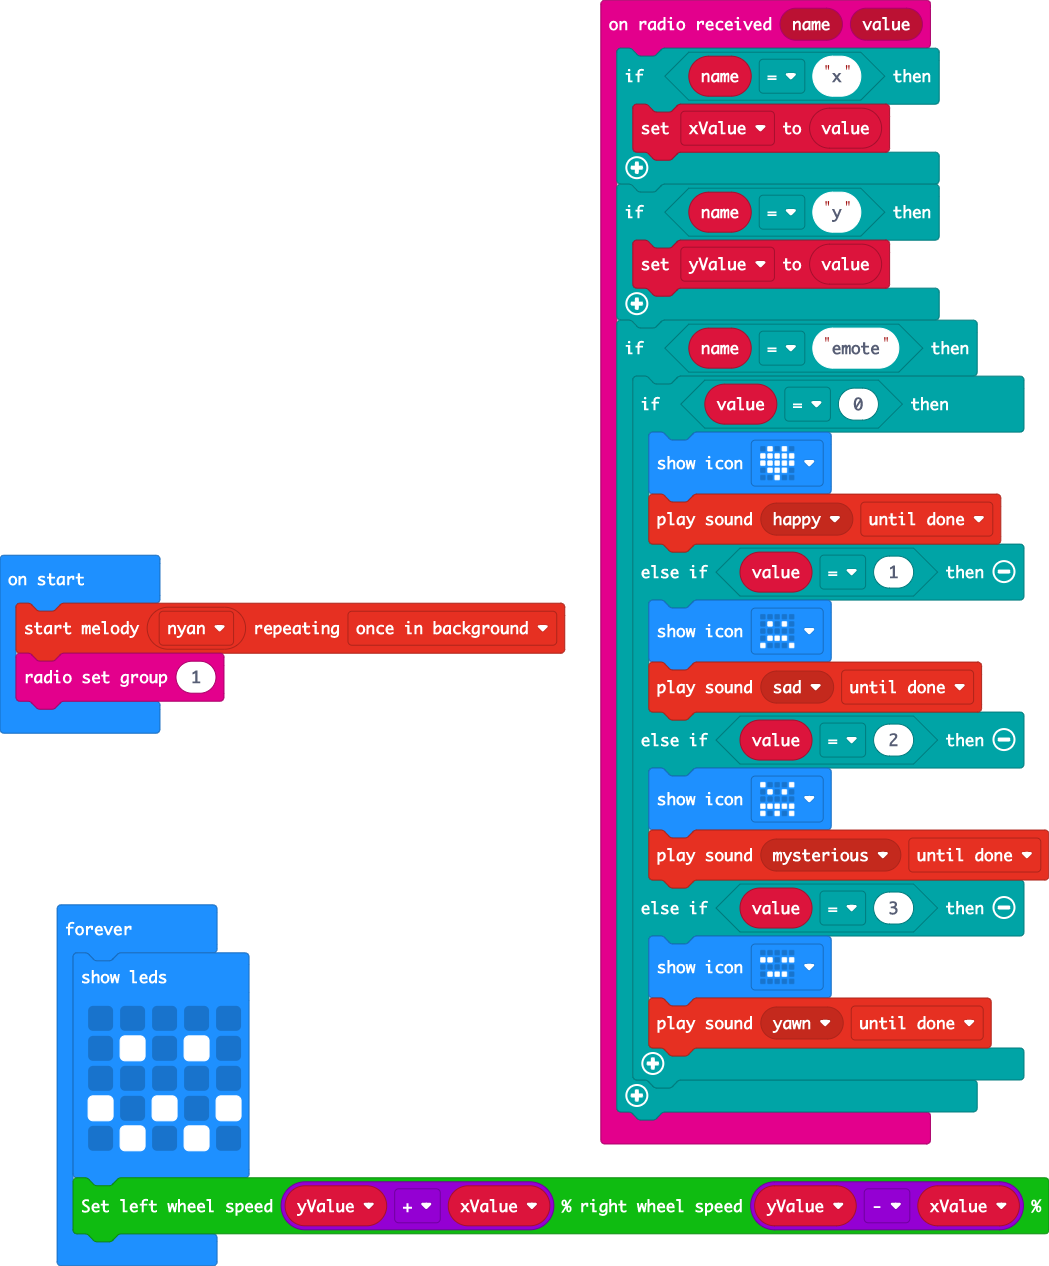
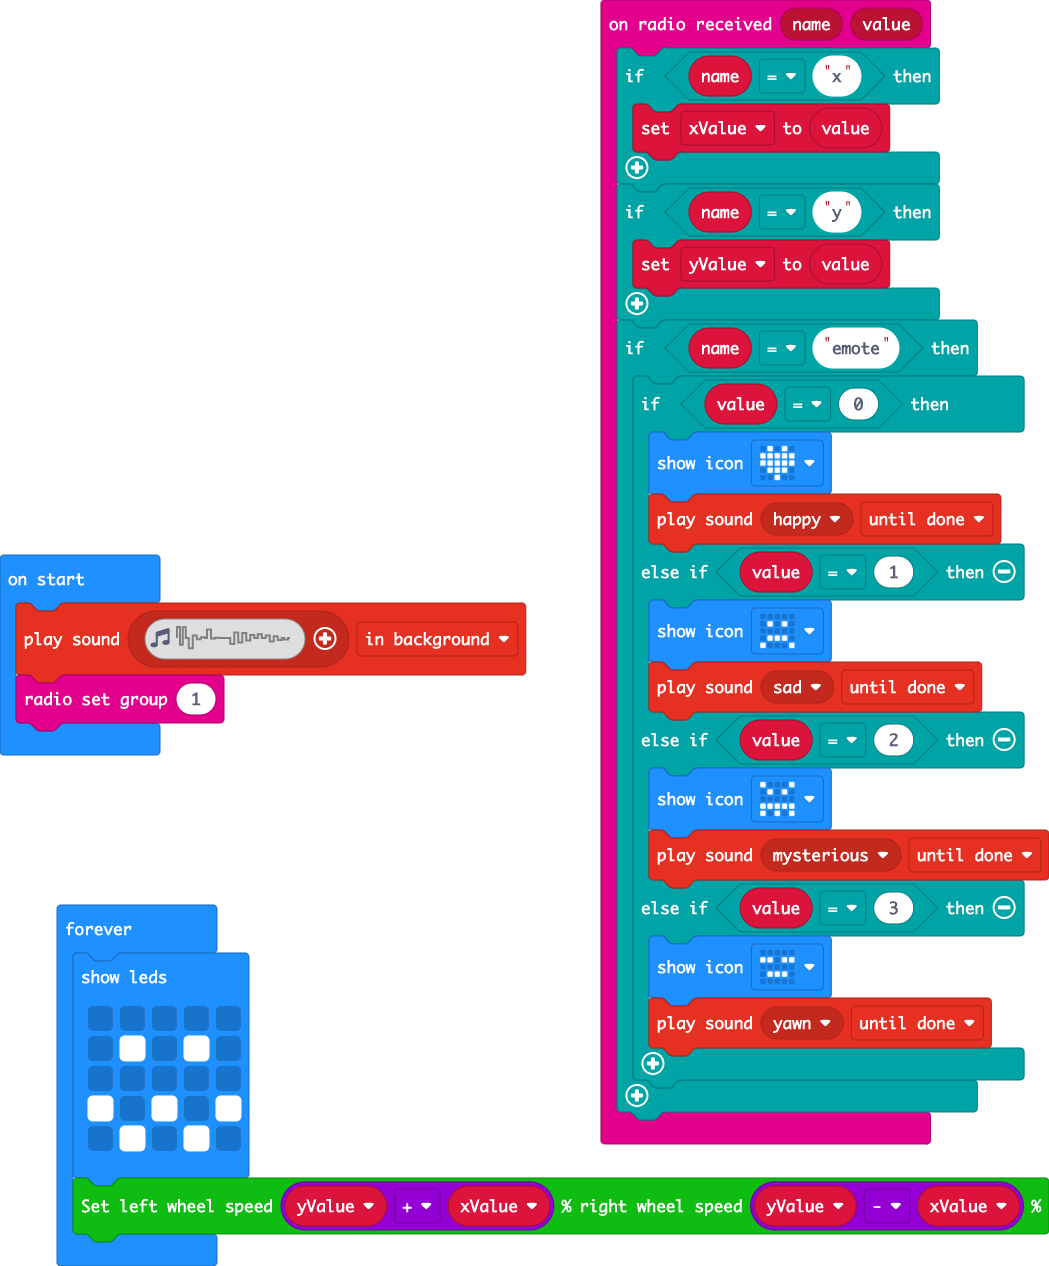
change sound

Changed region(s): [[0.0, 0.4621, 0.5491, 0.6161]]

diff --git a/main.ts b/main.ts
@@ -23,7 +23,7 @@ radio.onReceivedValue(function (name, value) {
 })
 let yValue = 0
 let xValue = 0
-music.startMelody(music.builtInMelody(Melodies.Nyan), MelodyOptions.OnceInBackground)
+music.playSoundEffect(music.createSoundEffect(WaveShape.Noise, 106, 82, 189, 0, 198, SoundExpressionEffect.None, InterpolationCurve.Linear), SoundExpressionPlayMode.InBackground)
 radio.setGroup(1)
 basic.forever(function () {
     basic.showLeds(`
